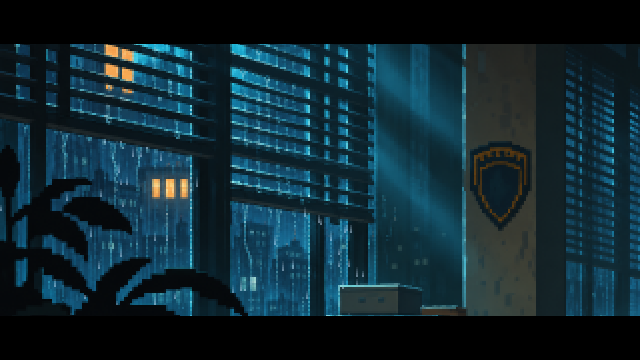
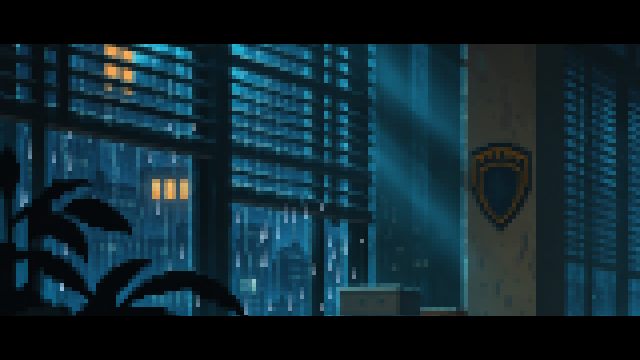
[Э3][s00] cutscene frames at 4x pixel; hand/rain/steam on 4px grid

diff --git a/docs/STATUS.md b/docs/STATUS.md
@@ -17,6 +17,7 @@ Codex CLI: 0.169.0 (Node 26 LTS через nvm), вход: да (ChatGPT)
 | s01_precinct | дизайн DRAFT | ТЗ DRAFT; bg_exposition (v1_c), bg_desk (по рефу 05), 3 документа-спрайта APPROVED; крупные планы TODO | экспозиция | экспозиция — черновик (речь, маркеры, пыль, кнопка); стол — заготовка | — |
 
 ## Последние действия (последние 5, новые сверху)
+- 2026-11-18 Э3: s00 — кадры кат-сцены в пикселе 4x; рука пишет без искажений (маска), дождь/пар под сетку 4px
 - 2026-11-18 Э3: s00 кат-сцена в Godot: окно (дождь) → кофе (Алексей пишет, пар) → s01, кинополосы уходят; пропуск; тест OK
 - 2026-11-18 Э3: s00 — кофе v7: средние пропорции между v5_b и v6, голубые окна, низкий горизонт
 - 2026-11-18 Э3: s00 — кадры по точным референсам: окно = вырезка из исходника s01 / Codex-доработка v2_a; кофе v3 (Алексей за этим же столом, глубина резкости)

diff --git a/docs/DECISIONS.md b/docs/DECISIONS.md
@@ -32,3 +32,6 @@ Pixeloid Sans / Sans Bold / Mono (GGBotNet, SIL OFL 1.1), 9 px. Файлы и л
 - Автозагрузка `Letterbox` (`scripts/autoload/letterbox.gd`): кинополосы 44px; `show_bars()`, `retract()` (верхняя уходит вверх, нижняя вниз). Следующая сцена сама убирает полосы, если они показаны.
 - Игра стартует с `scenes/s00/intro.tscn`. Кадры кат-сцен 680×290 (запас под панораму по 2px), видимая область 640×272.
 - «Оживление» нарисованного кадра без новых кадров анимации: шейдер `write_wobble.gdshader` сдвигает мягкую область (рука) по сетке 2px.
+
+## 14. Пиксель кат-сцен 4x (2026-11-18)
+Кадры кат-сцены s00 — «крупный пиксель» 4x (эффективно 170×73 на видимую область); сетка руки/дождя/пара — 4px. Игровые сцены остаются 2x (DECISIONS #12). Цвета не меняются (box ↓, nearest ↑).
